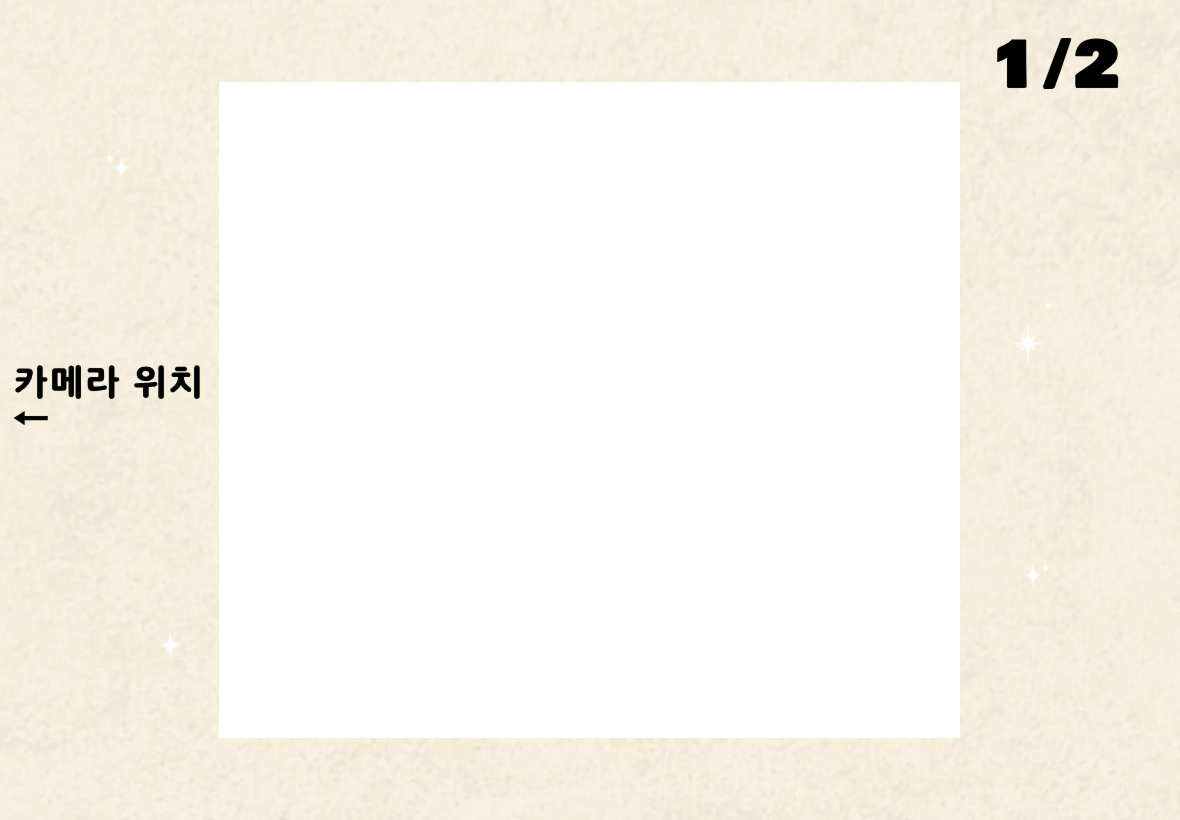
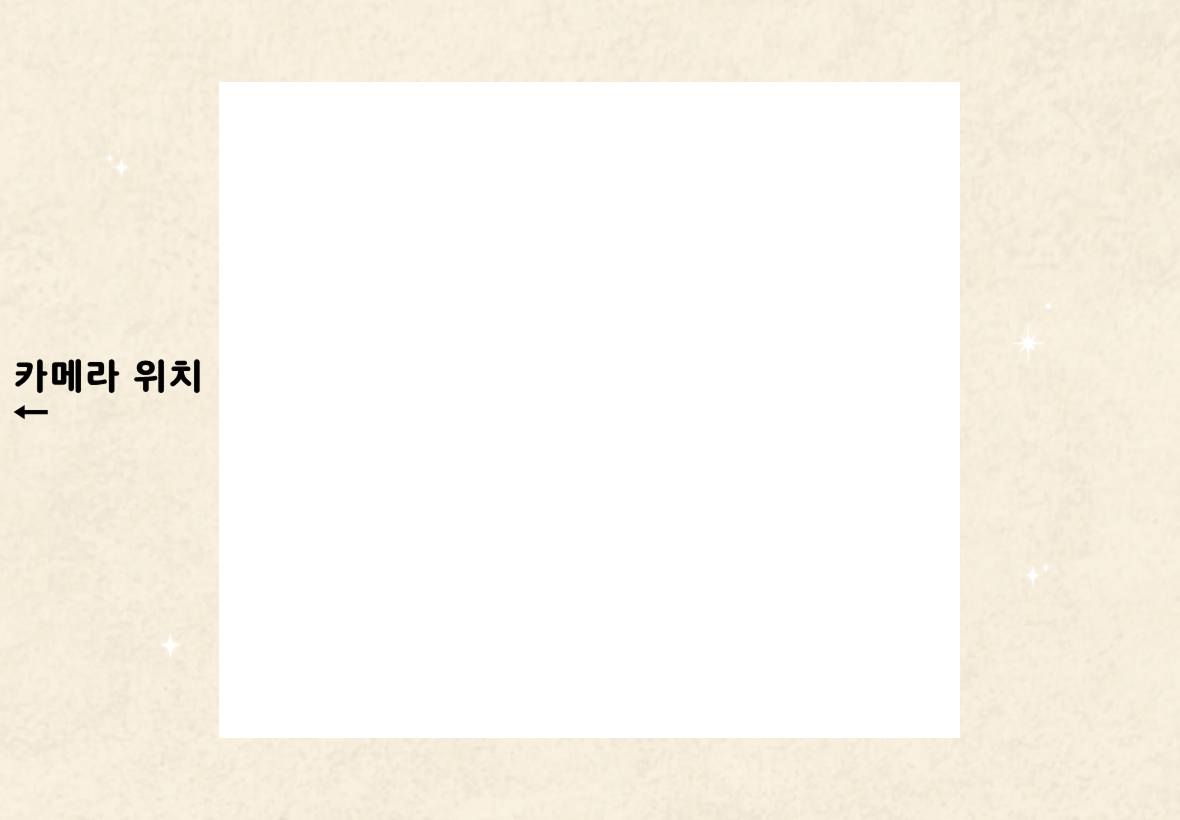
사진으로 바꿔보기

Changed region(s): [[0.0, 0.4268, 0.1831, 0.5183], [0.8237, 0.0305, 0.9458, 0.122]]

diff --git a/index.html b/index.html
@@ -112,12 +112,8 @@
     top: 20px; right: 28px;
     z-index: 5;
     font-family: 'Fredoka One', cursive;
-    font-size: 36px;
-    color: #fff;
-    text-shadow: 0 2px 8px rgba(0,0,0,0.35);
-    background: rgba(0,0,0,0.18);
-    padding: 4px 16px;
-    border-radius: 20px;
+    font-size: 40px;
+    color: #000000;
   }
 
   /* 알림 오버레이 (3초) */
@@ -188,12 +184,12 @@
   #result-img-wrap {
     position: absolute;
     left: 50%; top: 50%;
-    transform: translate(-50%, -44%);
+    transform: translate(-50%, -48%);
     z-index: 1;
   }
 
   #result-display {
-    max-height: 48vh;
+    max-height: 55vh;
     aspect-ratio: 735/980;
     display: block;
     border-radius: 6px;
